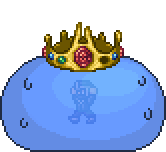
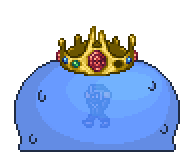
Added Boss's Attack
bosses now deal emotional damage

diff --git a/BossPanel.java b/BossPanel.java
@@ -14,22 +14,25 @@ import javax.swing.border.LineBorder;
 import java.util.Random;
 
 public class BossPanel extends JPanel implements ActionListener{
-    private static JLabel bossTitle;
-    private static double bossMaxHP;
-    private static int bossHP;
-    private static String bossName;
+    private JLabel bossTitle;
+    private double bossMaxHP;
+    private int bossHP;
+    private String bossName;
+    public int attack;
+    public int cooldown;
 
-    private static int frame;
-    private static int state;   
-    public static int phase;
-    private static double spawn;
-    public static int spawnChance;
-    private static Random random;
-    private static boolean transformed;
-    public static boolean canSpawn;
-    private static Image bossImage;
-    private static Timer animateTimer;
-    public static Timer spawnTimer;
+    private int frame;
+    private int state;   
+    public int phase;
+    private double spawn;
+    public int spawnChance;
+    private Random random;
+    private boolean transformed;
+    public boolean canSpawn;
+    private Image bossImage;
+    private Timer animateTimer;
+    public Timer spawnTimer;
+    public Timer attackTimer;
     public static PlayZone playZone;
 
     public BossPanel(){
@@ -38,15 +41,18 @@ public class BossPanel extends JPanel implements ActionListener{
         frame = 0;
         state = 0;
         phase = 0;
+        cooldown = 0;
         spawnChance = 0;
         canSpawn = false;
         transformed = false;
         
         random = new Random();
         animateTimer = new Timer(200, this);
-        spawnTimer = new Timer(10000, this);
+        spawnTimer = new Timer(100, this);
+        attackTimer = new Timer(cooldown, this);
         animateTimer.stop();
         spawnTimer.stop();
+        attackTimer.stop();
         playZone = GameFrame.getPlayZone();
         bossTitle = new JLabel(bossName);
         bossTitle.setForeground(new Color(193,221,196,255));
@@ -67,6 +73,13 @@ public class BossPanel extends JPanel implements ActionListener{
             animate();
         if (!playZone.isGameOver() && !KeyHandler.isPause() && GameFrame.isPlaying() && e.getSource() == spawnTimer)
             randomSpawn();
+        if (!playZone.isGameOver() && !KeyHandler.isPause() && GameFrame.isPlaying() && e.getSource() == attackTimer)
+            attack();
+        if (playZone.isGameOver()){
+            animateTimer.stop();
+            spawnTimer.stop();
+            attackTimer.stop();
+        }
     }
 
     @Override
@@ -76,7 +89,7 @@ public class BossPanel extends JPanel implements ActionListener{
         drawBoss(g);
     }
 
-    public static void randomSpawn(){
+    public void randomSpawn(){
         if (canSpawn){
             spawn = random.nextInt(101);
             if(spawn <= spawnChance){
@@ -87,12 +100,12 @@ public class BossPanel extends JPanel implements ActionListener{
         }
     }
 
-    public static void spawnBoss(){
+    public void spawnBoss(){
         if(phase == 0){
             if(LevelPanel.getLevel() <= 5){
                 bossName = "KingSlime";
-                bossMaxHP = 2000;
-                bossHP = 2000;
+                bossMaxHP = 5000;
+                bossHP = 5000;
                 bossTitle.setText("King Slime");
             }
             else if (LevelPanel.getLevel() <= 10){
@@ -105,9 +118,9 @@ public class BossPanel extends JPanel implements ActionListener{
         }
 
         if(bossName == "KingSlime"){
-            if(bossHP <= 500)
+            if(bossHP <= bossMaxHP/4.0)
                 state = 3;
-            else if(bossHP <= 1000)
+            else if(bossHP <= bossMaxHP/2.0)
                 state = 2;
             if(phase >= 2)
                 exitFight();
@@ -125,17 +138,19 @@ public class BossPanel extends JPanel implements ActionListener{
         }
     }
 
-    public static void enterFight(){
-        state++;
-        phase++;
+    public void enterFight(){
+        state = 1;
+        phase = 1;
+        setAttackTimer();
         animateTimer.restart();
+        attackTimer.restart();
         spawnTimer.stop();
         canSpawn = false;
         spawnChance = 0;
         System.out.println("Boss Spawn Deactive");
     }
 
-    public static void exitFight(){
+    public void exitFight(){
         bossName = "null";
         phase = 0;
         state = 0;
@@ -143,6 +158,7 @@ public class BossPanel extends JPanel implements ActionListener{
         spawnChance = 0;
         bossTitle.setText("");
         animateTimer.stop();
+        attackTimer.stop();
         spawnTimer.restart();
     }
 
@@ -168,6 +184,20 @@ public class BossPanel extends JPanel implements ActionListener{
         }
     }
 
+    public void setAttackTimer(){
+        if (bossName == "KingSlime"){
+           cooldown = 10000; 
+        }
+        else if (bossName == "EyeOfCthulhu"){
+            cooldown = 15000; 
+        }
+        attackTimer = new Timer(cooldown, this);
+    }
+
+    public void attack(){
+        System.out.println("U Stupid");
+    }
+
     public void animate(){
         repaint();
         frame = (frame + 1) % 8;
@@ -175,15 +205,31 @@ public class BossPanel extends JPanel implements ActionListener{
 
     public void drawBoss(Graphics g){  
         if (bossName == "KingSlime"){       
-            if(frame % 2 == 0){
-                bossImage = new ImageIcon("Assets/Image/Bosses/" + bossName + "/Idle_" + state + "_0.png").getImage();
-                g.drawImage(bossImage ,40, 50,null);}
-            else if(frame % 4 == 1){
-                bossImage = new ImageIcon("Assets/Image/Bosses/" + bossName + "/Idle_" + state + "_1.png").getImage();
-                g.drawImage(bossImage ,40, 50, null);}
-            else if(frame % 4 == 3){
-                bossImage = new ImageIcon("Assets/Image/Bosses/" + bossName + "/Idle_" + state + "_2.png").getImage();
-                g.drawImage(bossImage ,40, 50, null);}  
+            if (state == 1){
+                if(frame % 2 == 0){
+                    bossImage = new ImageIcon("Assets/Image/Bosses/" + bossName + "/Idle_" + state + "_0.png").getImage();
+                    g.drawImage(bossImage ,40, 50,null);}
+                else if(frame % 4 == 1){
+                    bossImage = new ImageIcon("Assets/Image/Bosses/" + bossName + "/Idle_" + state + "_1.png").getImage();
+                    g.drawImage(bossImage ,40, 50, null);}
+                else if(frame % 4 == 3){
+                    bossImage = new ImageIcon("Assets/Image/Bosses/" + bossName + "/Idle_" + state + "_2.png").getImage();
+                    g.drawImage(bossImage ,40, 50, null);}  
+            }
+            else if (state == 2 || state == 3){
+                if(frame % 4 == 0){
+                    bossImage = new ImageIcon("Assets/Image/Bosses/" + bossName + "/Idle_" + state + "_0.png").getImage();
+                    g.drawImage(bossImage ,40, 50,null);}
+                else if(frame % 4 == 1){
+                    bossImage = new ImageIcon("Assets/Image/Bosses/" + bossName + "/Idle_" + state + "_1.png").getImage();
+                    g.drawImage(bossImage ,40, 50, null);}
+                else if(frame % 4 == 2){
+                    bossImage = new ImageIcon("Assets/Image/Bosses/" + bossName + "/Idle_" + state + "_2.png").getImage();
+                    g.drawImage(bossImage ,40, 50, null);}
+                else if(frame % 4 == 3){
+                    bossImage = new ImageIcon("Assets/Image/Bosses/" + bossName + "/Idle_" + state + "_3.png").getImage();
+                    g.drawImage(bossImage ,40, 50, null);}  
+            }
         }  
         else if (bossName == "EyeOfCthulhu"){       
             if (phase == 1){
@@ -221,6 +267,46 @@ public class BossPanel extends JPanel implements ActionListener{
                     g.drawImage(bossImage ,25, 50, null);}  
             }
         }  
+    }
+
+    public Timer getSpawnTimer() {
+        return spawnTimer;
+    }
+
+    public void setSpawnTimer(Timer spawnTimer) {
+        this.spawnTimer = spawnTimer;
+    }
+
+    public void restartSpawnTimer() {
+        spawnTimer.restart();
+    }
+
+    public void stopSpawnTimer() {
+        spawnTimer.stop();
+    }
+
+    public int getPhase() {
+        return phase;
+    }
+
+    public  void setPhase(int phase) {
+        this.phase = phase;
+    }
+
+    public int getSpawnChance() {
+        return spawnChance;
+    }
+
+    public void setSpawnChance(int spawnChance) {
+        this.spawnChance = spawnChance;
+    }
+
+    public boolean isCanSpawn() {
+        return canSpawn;
+    }
+
+    public void setCanSpawn(boolean canSpawn) {
+        this.canSpawn = canSpawn;
     }
 }
 

diff --git a/LevelPanel.java b/LevelPanel.java
@@ -8,6 +8,7 @@ public class LevelPanel extends JPanel{
     private static int level;
     private static JLabel levelLabel;
     private static JLabel levelScore;
+    private static BossPanel bossPanel;
 
     public LevelPanel(){
         level = 1;
@@ -29,6 +30,8 @@ public class LevelPanel extends JPanel{
         levelLabel.setFont(new Font("Futura",Font.BOLD,20));
         levelScore.setFont(new Font("Futura",Font.BOLD,30));
         levelScore.setText(""+level);
+
+        bossPanel = GameFrame.getBossPanel();
     }
 
     public static int getLevel() {
@@ -37,12 +40,15 @@ public class LevelPanel extends JPanel{
 
     public static void addLevel() {
         level++;
-        BossPanel.spawnChance += 5;
-        if(BossPanel.phase == 0){
-            BossPanel.canSpawn = true;
-            BossPanel.spawnTimer.restart();
+        if(bossPanel == null){
+            bossPanel = GameFrame.getBossPanel();
+        }
+        bossPanel.spawnChance += 5;
+        if(bossPanel.phase == 0){
+            bossPanel.canSpawn = true;
+            bossPanel.restartSpawnTimer();
             System.out.println("Boss Spawn Active");
-            System.out.println(BossPanel.spawnChance + "%");
+            System.out.println(bossPanel.spawnChance + "%");
         }
     }
 
